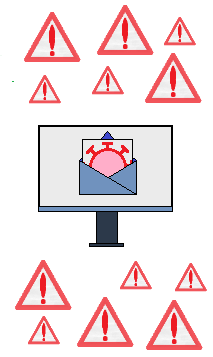
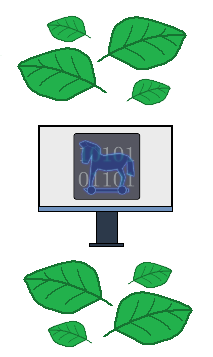
Módosítás a tanulós mód anyagain

diff --git a/src/main/resources/datasources/credits_and_sources.html b/src/main/resources/datasources/credits_and_sources.html
@@ -17,7 +17,7 @@
             <br><br><a href="https://www.serco.hu/szamitogepes-virusok-fajtai">https://www.serco.hu/szamitogepes-virusok-fajtai</a>
             <br><br><a href="https://en.wikipedia.org/wiki/Zeus_(malware)">https://en.wikipedia.org/wiki/Zeus_(malware)</a>
             <br><br><a href="https://www.avast.com/c-zeus">https://www.avast.com/c-zeus</a>
-            <br><br><a href="https://en.wikipedia.org/wiki/Flashback_(Trojan)">https://en.wikipedia.org/wiki/Flashback_(Trojan)</a>
+            <br><br><a href="https://en.wikipedia.org/wiki/PoisonIvy_(trojan)">https://en.wikipedia.org/wiki/PoisonIvy_(trojan)</a>
             <br><br><a href="https://www.macworld.com/article/217284/what_you_need_to_know_about_the_flashback_trojan.html">https://www.macworld.com/article/217284/what_you_need_to_know_about_the_flashback_trojan.html</a>
             <br><br><a href="https://www.eset.hu/tamogatas/viruslabor/virusleirasok/anticad-4096-danube">https://www.eset.hu/tamogatas/viruslabor/virusleirasok/anticad-4096-danube</a>
             <br><br><a href="https://en.wikipedia.org/wiki/Jerusalem_%28computer_virus%29">https://en.wikipedia.org/wiki/Jerusalem_%28computer_virus%29</a>

diff --git a/src/main/python/learninggame/chooseLearning.py b/src/main/python/learninggame/chooseLearning.py
@@ -35,7 +35,7 @@ class ChooseLearningUI(QMainWindow):
             self.spywares = self.findChild(QPushButton, "spywares")
             self.adwares = self.findChild(QPushButton, "adwares")
             self.rootkits = self.findChild(QPushButton, "rootkits")
-            self.keyloggers = self.findChild(QPushButton, "keyloggers")
+            self.fileless = self.findChild(QPushButton, "fileless")
             self.backButton = self.findChild(QPushButton, "backButton")
 
             self.learnScreen = None
@@ -96,11 +96,11 @@ class ChooseLearningUI(QMainWindow):
                                              )
             )
 
-            self.keyloggers.clicked.connect(
+            self.fileless.clicked.connect(
                 lambda: self.openLearnWindow(username,
                                              parent,
-                                             typeOfLesson="Billentyűnaplózó Programok",
-                                             nameOfData="keyloggers"
+                                             typeOfLesson="Fájlnélküli kártevők",
+                                             nameOfData="fileless"
                                              )
             )
 

diff --git a/src/main/python/learninggame/learnWindow.py b/src/main/python/learninggame/learnWindow.py
@@ -33,7 +33,7 @@ class LearnWindowUI(QMainWindow):
                 "Reklámprogramok": "lesson5",
                 "Zsarolóvírusok": "lesson6",
                 "Rootkitek": "lesson7",
-                "Billentyűnaplózó Programok": "lesson8"
+                "Fájlnélküli kártevők": "lesson8"
             }
 
             self.currentLesson = lessonMapping.get(typeOfLesson, "")
@@ -57,7 +57,6 @@ class LearnWindowUI(QMainWindow):
             self.exitButton.setText("Bezárás")
 
             self.defaultBackButtonStyle = self.backButton.styleSheet()
-            print(self.defaultBackButtonStyle)
 
             self.titleLabel.setText(typeOfLesson)
             self.learnContent = self.loadLearnContentIntoArray(typeOfLesson)
